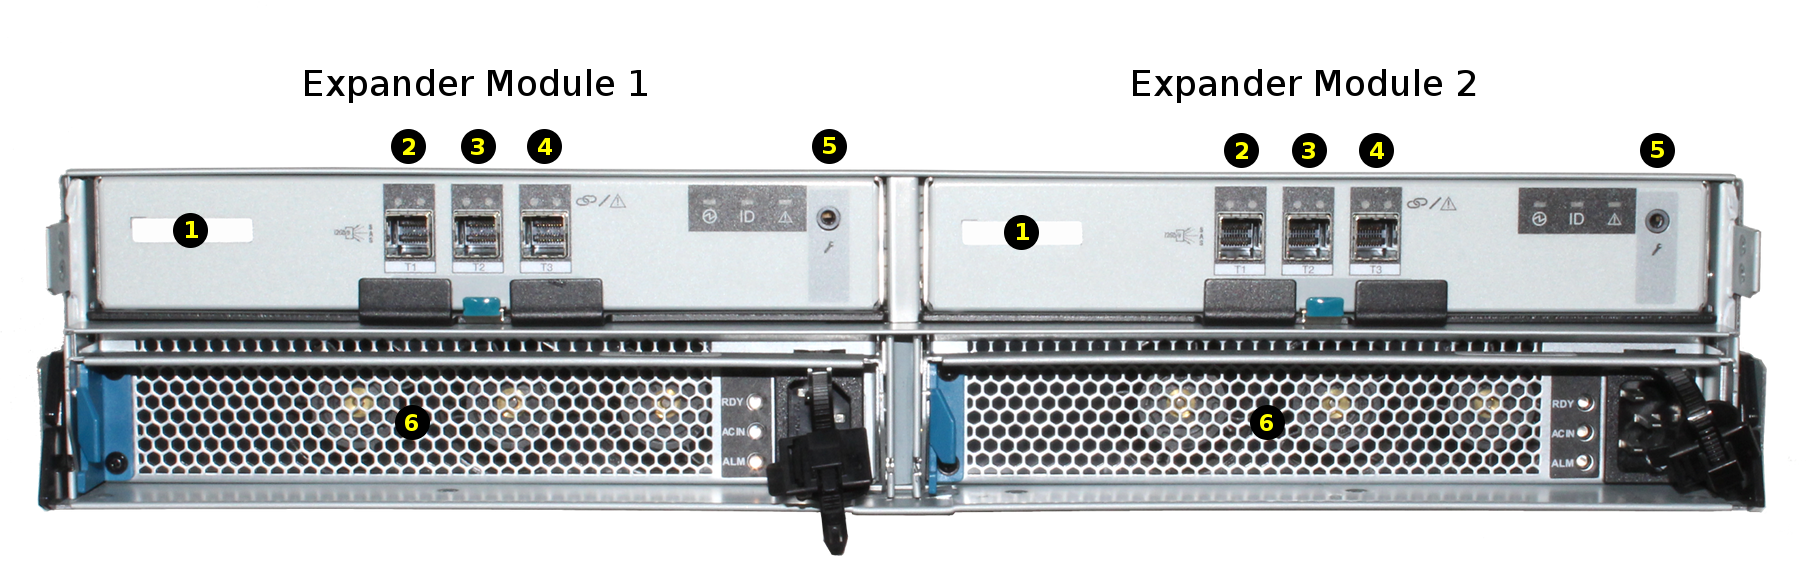
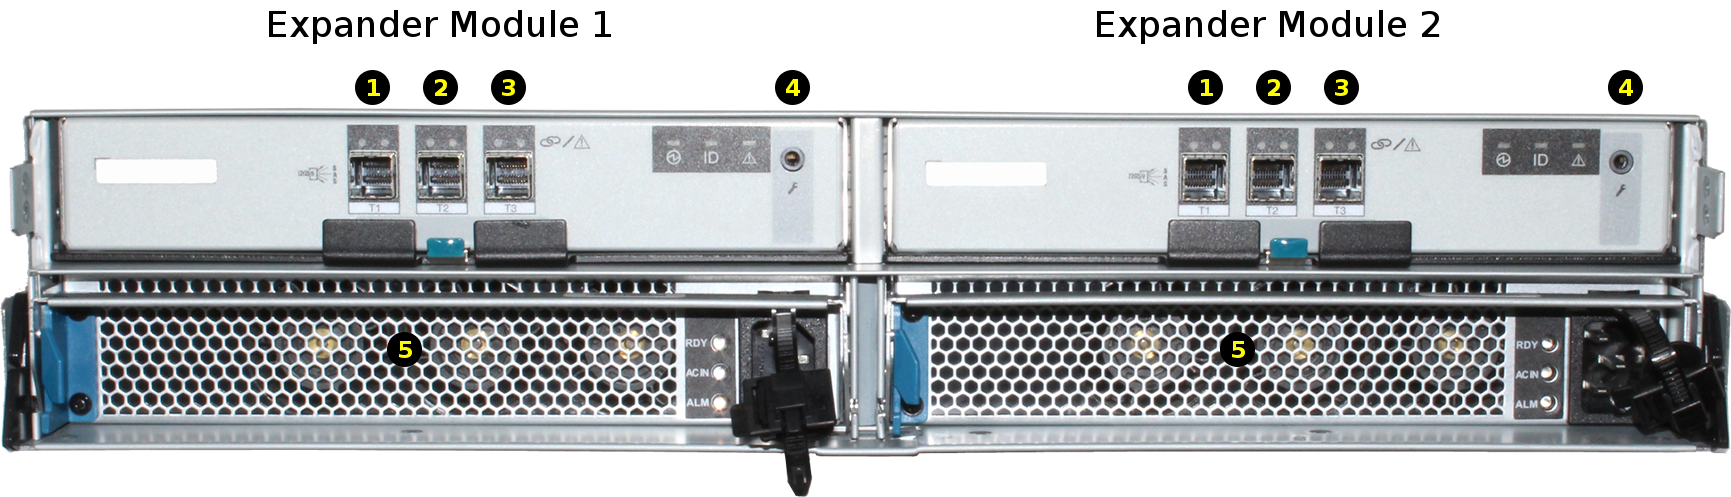
Remove callout from serial number.

diff --git a/userguide/snippets/es12.rst b/userguide/snippets/es12.rst
@@ -85,13 +85,11 @@ configuration. The connectors and features on each module are:
    :class: longtable
 
    +-----------------------------------------------------+
-   | 1: Serial number labels                             |
+   | 1-3: HD Mini SAS3 connectors (T1-T3)                |
    +-----------------------------------------------------+
-   | 2-4: HD Mini SAS3 connectors (T1-T3)                |
+   | 4: Debug port (%brand% internal use only)           |
    +-----------------------------------------------------+
-   | 5: Debug port (%brand% internal use only)           |
-   +-----------------------------------------------------+
-   | 6: Redundant power supplies                         |
+   | 5: Redundant power supplies                         |
    +-----------------------------------------------------+
 
 
